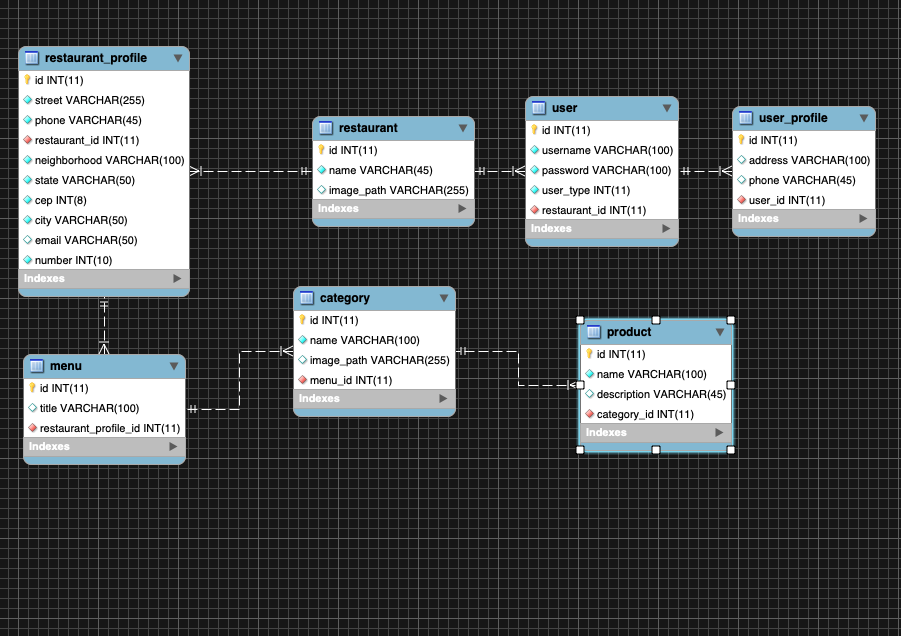
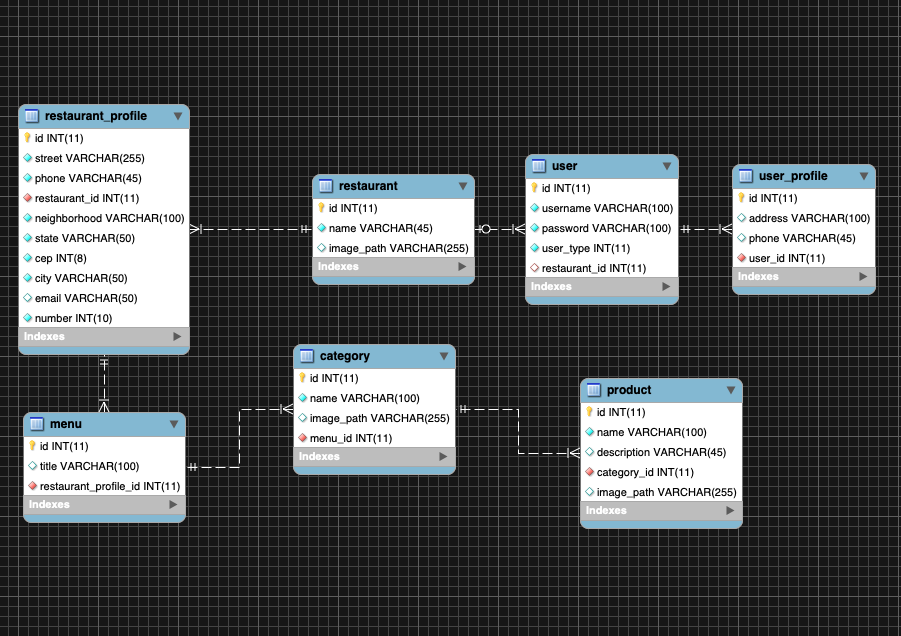
Adjusting database. Adding image_path on product. Deleting images before delete the entity

diff --git a/src/main/java/br/com/menu/menudigital/menu/MenuController.java b/src/main/java/br/com/menu/menudigital/menu/MenuController.java
@@ -42,12 +42,12 @@ public class MenuController {
 	}
 	
 	@PostMapping
-	public @ResponseBody Menu saveMenu(@RequestBody MenuDTO newMenuDTO) {
+	public @ResponseBody Menu save(@RequestBody MenuDTO newMenuDTO) {
 		return menuRepository.save(newMenuDTO.toMenuEntity());
 	}
 	
 	@PutMapping("/{id}")
-	public @ResponseBody Menu updateMenu(@PathVariable Long id, @RequestBody MenuDTO newMenuDTO) throws NotFoundException {
+	public @ResponseBody Menu update(@PathVariable Long id, @RequestBody MenuDTO newMenuDTO) throws NotFoundException {
 		Menu menu = menuRepository.findById(id).orElseThrow(() -> new NotFoundException("Does not exist menu with this id."));
 		
 		menu.setRestaurantProfileId(newMenuDTO.getRestaurantProfileId());
@@ -57,10 +57,9 @@ public class MenuController {
 	}
 	
 	@DeleteMapping("/{id}")
-	public @ResponseBody String deleteMenu(@PathVariable("id") Long menuId) throws NotFoundException {
+	public @ResponseBody void delete(@PathVariable("id") Long menuId) throws NotFoundException {
 		Menu menu = menuRepository.findById(menuId).orElseThrow(() -> new NotFoundException("Does not exist menu with this id."));
 		menuRepository.delete(menu);
-		return "true";
 	}
 	
 	

diff --git a/src/main/java/br/com/menu/menudigital/product/ProductController.java b/src/main/java/br/com/menu/menudigital/product/ProductController.java
@@ -57,7 +57,7 @@ public class ProductController {
 		product.setName(productDTO.getName());
 		product.setDescription(productDTO.getDescription());
 		
-		Path path = Paths.get(String.format("images/PRODUCT/%s", product.getId())); 
+		Path path = Paths.get(String.format("images/product/%s", product.getId())); 
 		
 		if(file != null) {
 			
@@ -81,8 +81,12 @@ public class ProductController {
 	}
 	
 	@DeleteMapping("/{id}")
-	public void deleteCategory(@PathVariable Long id) throws Exception {
-		Product product = productRepository.findById(id).orElseThrow(() -> new Exception("Does not exist product with this id."));
+	public @ResponseBody void deleteCategory(@PathVariable Long id) throws NotFoundException {
+		Product product = productRepository.findById(id).orElseThrow(() -> new NotFoundException("Does not exist product with this id."));
+
+		Path path = Paths.get(String.format("images/product/%s", product.getId())); 
+        FileSystemUtils.deleteRecursively(path.toFile());
+        
 		productRepository.delete(product);
 	}
 

diff --git a/src/main/java/br/com/menu/menudigital/category/CategoryController.java b/src/main/java/br/com/menu/menudigital/category/CategoryController.java
@@ -93,8 +93,11 @@ public class CategoryController {
 	}
 	
 	@DeleteMapping("/{id}")
-	public void deleteCategory(@PathVariable Long id) throws NotFoundException {
+	public @ResponseBody void deleteCategory(@PathVariable Long id) throws NotFoundException {
 		Category category = categoryRepository.findById(id).orElseThrow(() -> new NotFoundException("Does not exist category with this id."));
+		Path path = Paths.get(String.format("images/category/%s", category.getId()));
+		FileSystemUtils.deleteRecursively(path.toFile());
+		
 		categoryRepository.delete(category);
 	}
 }

diff --git a/src/main/java/br/com/menu/menudigital/restaurant/RestaurantController.java b/src/main/java/br/com/menu/menudigital/restaurant/RestaurantController.java
@@ -137,6 +137,5 @@ public class RestaurantController {
 		}
 		
 		restaurantRepository.delete(restaurant);
-
 	}
 }
